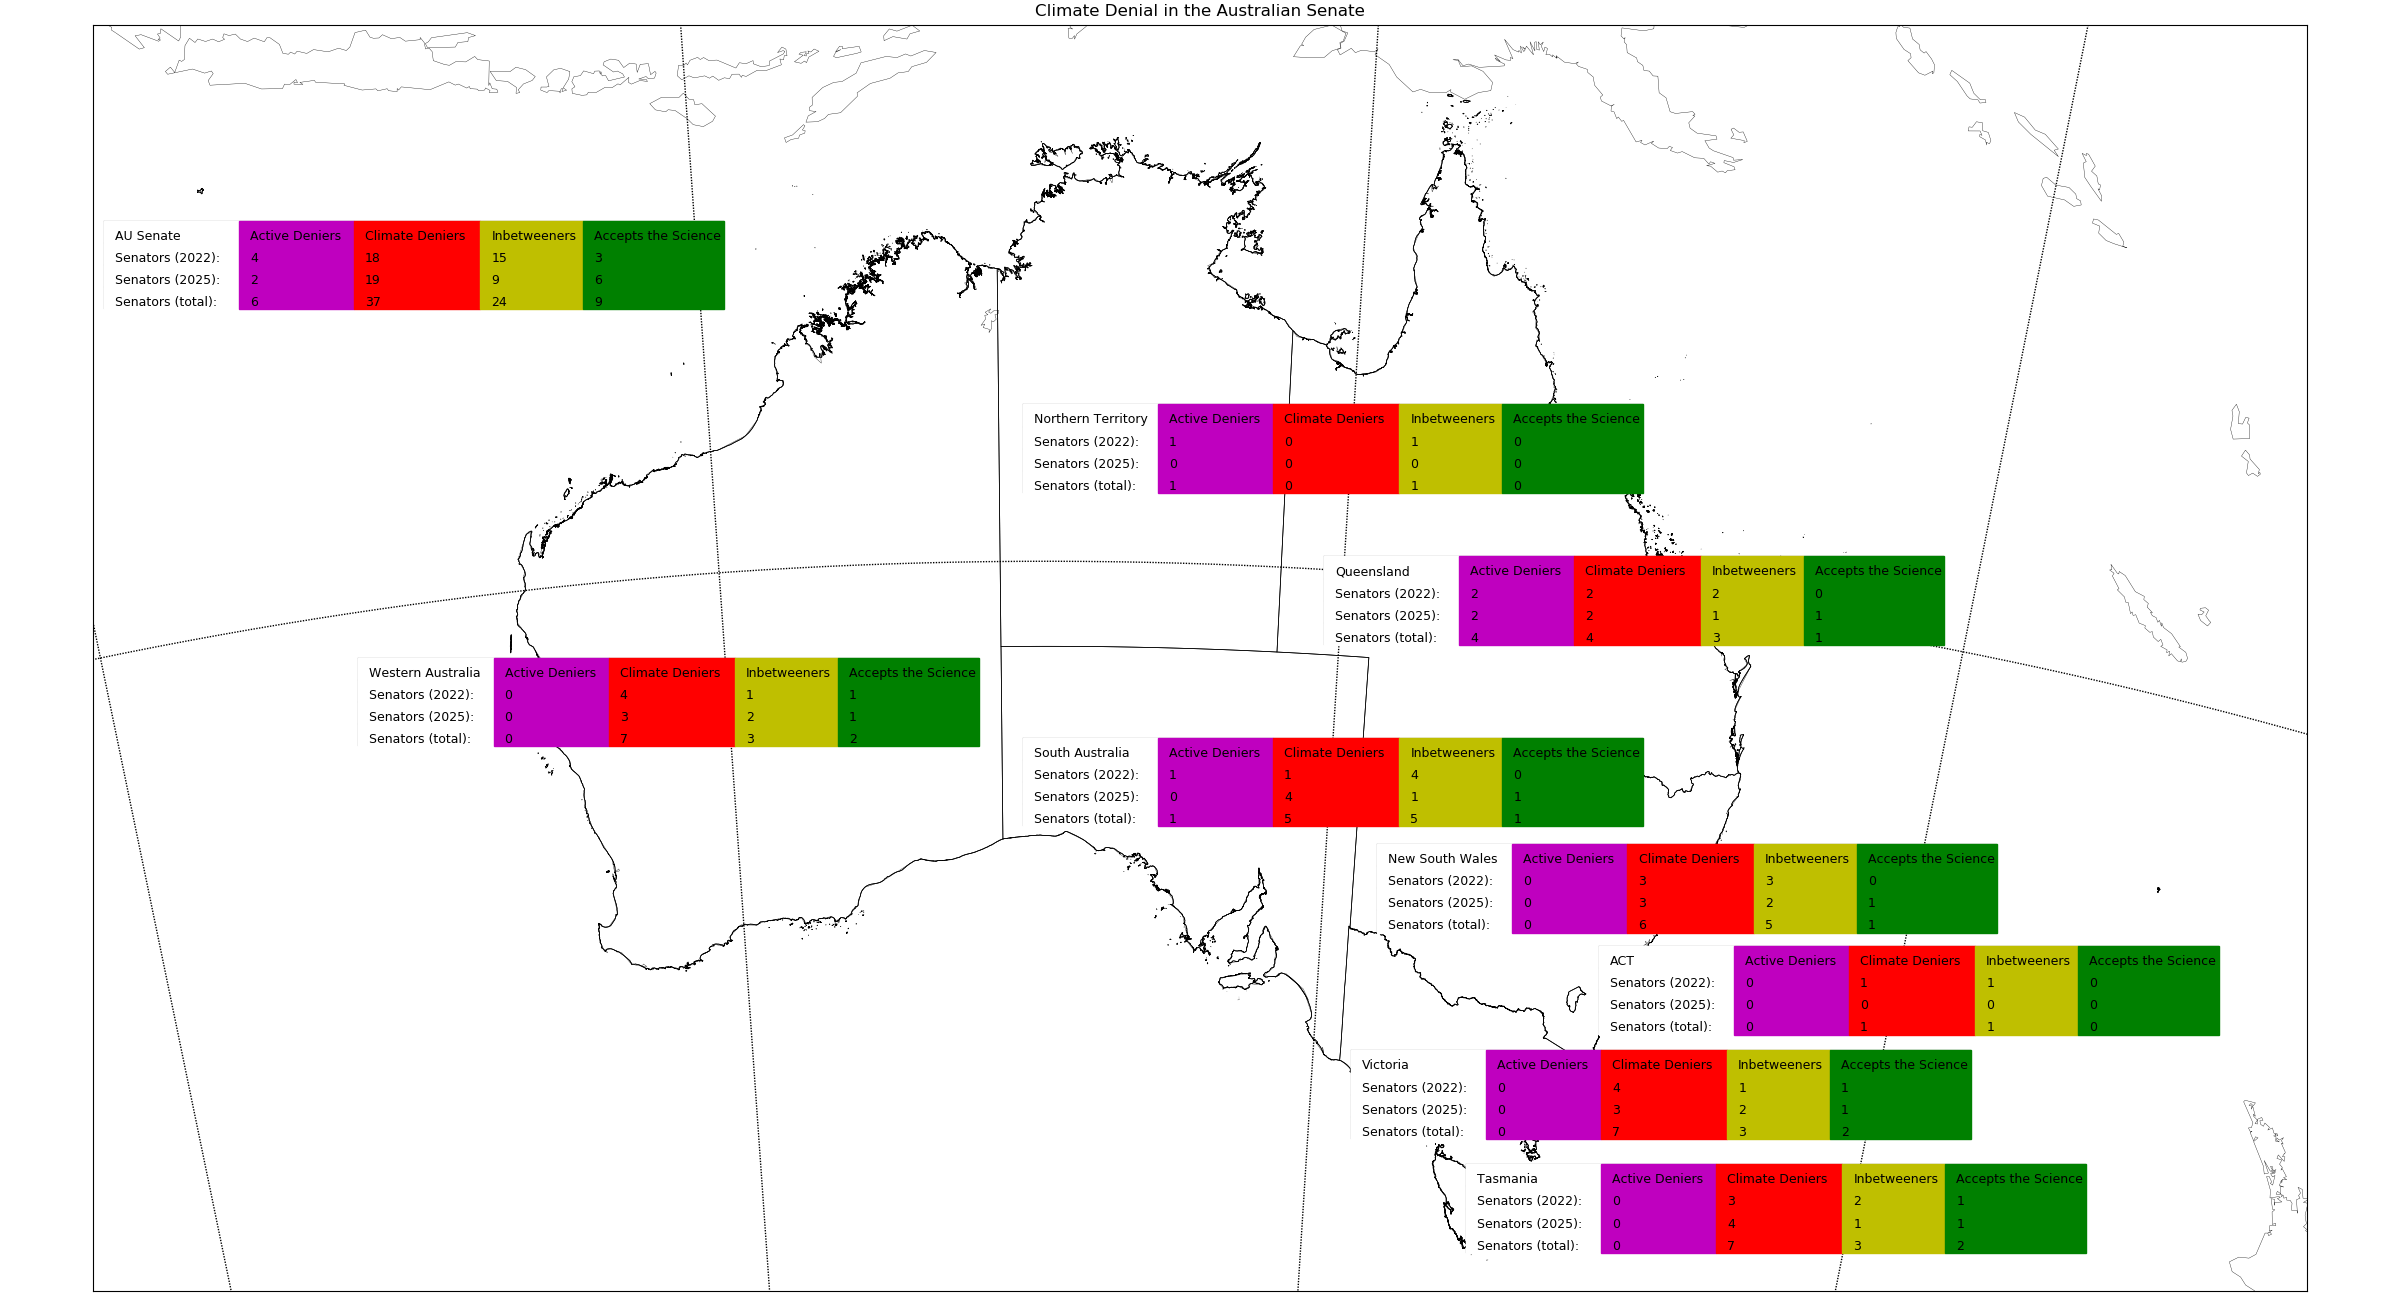
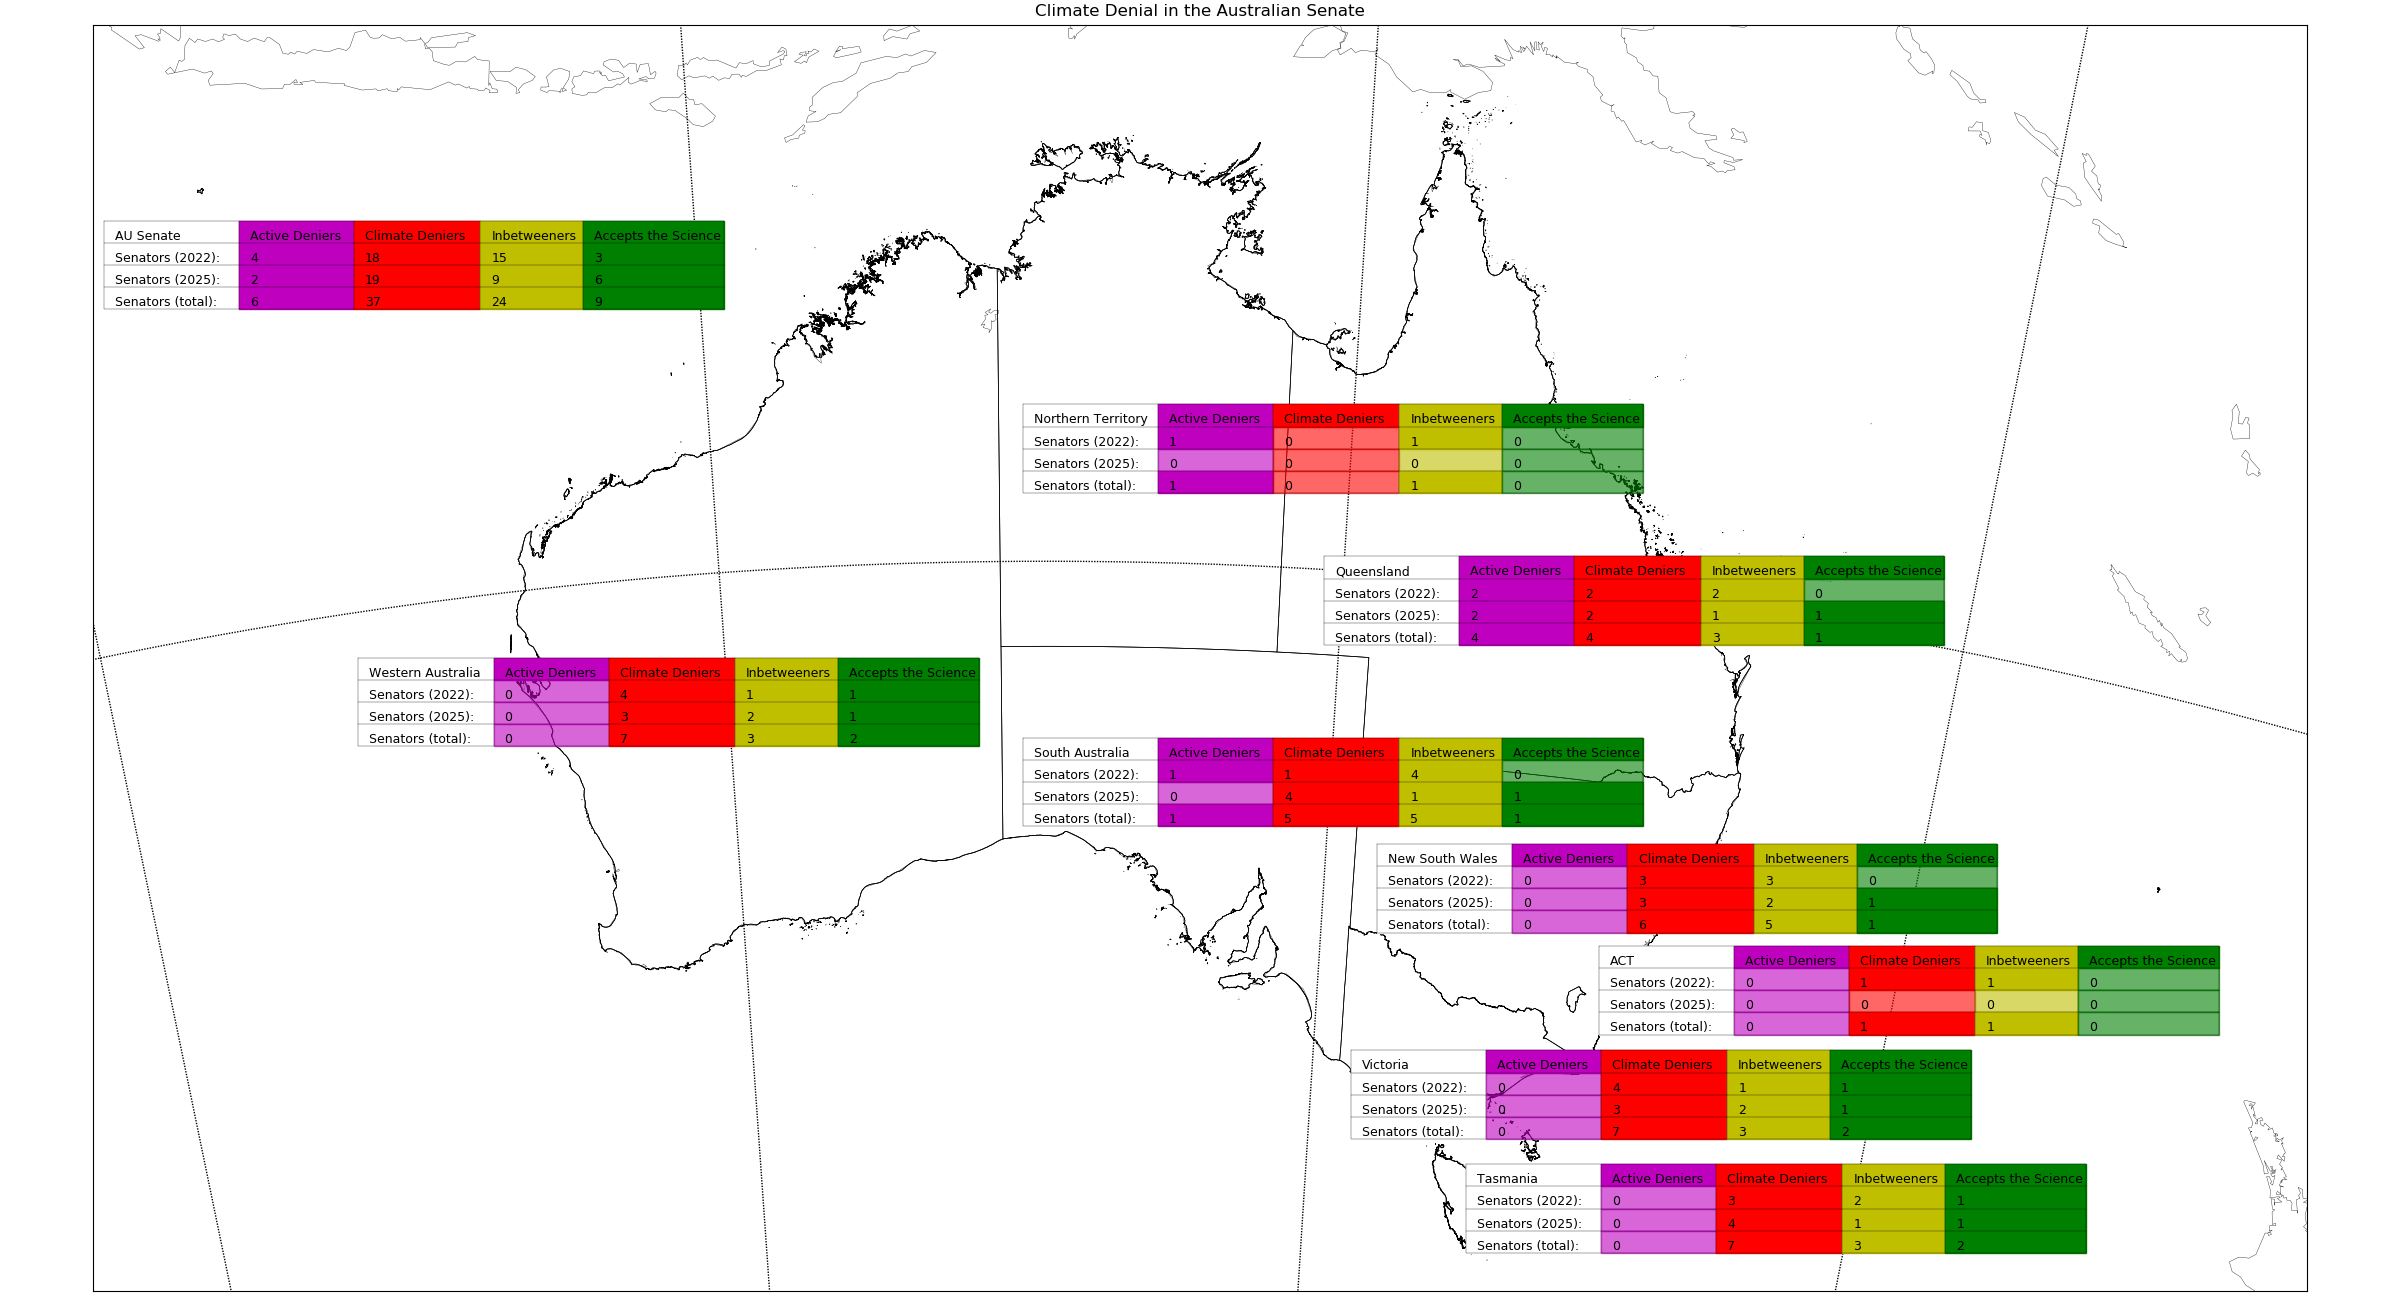
Transparency for cells that have value equal to 0

diff --git a/senate_climate_denialists.py b/senate_climate_denialists.py
@@ -44,6 +44,14 @@ m.drawmeridians(np.arange(100,180,20))
 
 m.readshapefile('./data/Igismap/Australia_Polygon', 'Australia_Polygon')
 
+def fill_cell(x, y, colour, value):
+    #fill given cell.
+    alpha = 0.6
+    if int(value) > 0:
+        alpha = 1
+
+    ax.fill(x, y, color=colour, transform=ax.transAxes, alpha=alpha, zorder=10)
+
 def display_table(cell_values, upper_left_corner, state):
     #print the summary table
     # senator_box_ulc = [0.005, 0.845]    
@@ -74,64 +82,69 @@ def display_table(cell_values, upper_left_corner, state):
     inbetweeners_txt_x = senator_box_vert3_x + 0.005
     accepts_science_txt_x = senator_box_vert4_x + 0.005
 
-    senator_box_fill_x = [senator_box_ulc[0], senator_box_vert1_x, senator_box_vert1_x, senator_box_ulc[0], senator_box_ulc[0]]
+    #fill first column
+    senator_box_fill_col0_x = [senator_box_ulc[0], senator_box_vert1_x, senator_box_vert1_x, senator_box_ulc[0], senator_box_ulc[0]]
     senator_box_fill_y = [senator_box_ulc[1], senator_box_ulc[1], senator_box_llc[1], senator_box_llc[1], senator_box_ulc[1]]
-    ax.fill(senator_box_fill_x, senator_box_fill_y, color='w', transform=ax.transAxes, zorder=10)
+    ax.fill(senator_box_fill_col0_x, senator_box_fill_y, color='w', transform=ax.transAxes, zorder=10)
 
-    senator_box_fill_x = [senator_box_vert1_x, senator_box_vert2_x, senator_box_vert2_x, senator_box_vert1_x, senator_box_vert1_x]
-    senator_box_fill_y = [senator_box_ulc[1], senator_box_ulc[1], senator_box_llc[1], senator_box_llc[1], senator_box_ulc[1]]
-    ax.fill(senator_box_fill_x, senator_box_fill_y, color='m', transform=ax.transAxes, zorder=10)
+    #fill heading row
+    senator_box_fill_col1_x = [senator_box_vert1_x, senator_box_vert2_x, senator_box_vert2_x, senator_box_vert1_x, senator_box_vert1_x]
+    senator_box_fill_row0_y = [senator_box_ulc[1], senator_box_ulc[1], senator_box_ml1[1], senator_box_ml1[1], senator_box_ulc[1]]
+    ax.fill(senator_box_fill_col1_x, senator_box_fill_row0_y, color='m', transform=ax.transAxes, zorder=10)
     
-    senator_box_fill_x = [senator_box_vert2_x, senator_box_vert3_x, senator_box_vert3_x, senator_box_vert2_x, senator_box_vert2_x]
-    senator_box_fill_y = [senator_box_ulc[1], senator_box_ulc[1], senator_box_llc[1], senator_box_llc[1], senator_box_ulc[1]]
-    ax.fill(senator_box_fill_x, senator_box_fill_y, color='r', transform=ax.transAxes, zorder=10)
+    senator_box_fill_col2_x = [senator_box_vert2_x, senator_box_vert3_x, senator_box_vert3_x, senator_box_vert2_x, senator_box_vert2_x]
+    ax.fill(senator_box_fill_col2_x, senator_box_fill_row0_y, color='r', transform=ax.transAxes, zorder=10)
 
-    senator_box_fill_x = [senator_box_vert3_x, senator_box_vert4_x, senator_box_vert4_x, senator_box_vert3_x, senator_box_vert3_x]
-    senator_box_fill_y = [senator_box_ulc[1], senator_box_ulc[1], senator_box_llc[1], senator_box_llc[1], senator_box_ulc[1]]
-    ax.fill(senator_box_fill_x, senator_box_fill_y, color='y', transform=ax.transAxes, zorder=10)
+    senator_box_fill_col3_x = [senator_box_vert3_x, senator_box_vert4_x, senator_box_vert4_x, senator_box_vert3_x, senator_box_vert3_x]
+    ax.fill(senator_box_fill_col3_x, senator_box_fill_row0_y, color='y', transform=ax.transAxes, zorder=10)
     
-    senator_box_fill_x = [senator_box_vert4_x, senator_box_urc[0], senator_box_lrc[0], senator_box_vert4_x, senator_box_vert4_x]
-    senator_box_fill_y = [senator_box_ulc[1], senator_box_ulc[1], senator_box_llc[1], senator_box_llc[1], senator_box_ulc[1]]
-    ax.fill(senator_box_fill_x, senator_box_fill_y, color='g', transform=ax.transAxes, zorder=10)
+    senator_box_fill_col4_x = [senator_box_vert4_x, senator_box_urc[0], senator_box_lrc[0], senator_box_vert4_x, senator_box_vert4_x]
+    ax.fill(senator_box_fill_col4_x, senator_box_fill_row0_y, color='g', transform=ax.transAxes, zorder=10)
 
+    line_colour = 'k'
     #outline
     senator_box_x = [senator_box_ulc[0], senator_box_urc[0], senator_box_lrc[0], senator_box_llc[0], senator_box_ulc[0]]
     senator_box_y = [senator_box_ulc[1], senator_box_urc[1], senator_box_lrc[1], senator_box_llc[1], senator_box_ulc[1]]
-    ax.plot(senator_box_x, senator_box_y, color='0.6', linewidth=0.25, transform=ax.transAxes)
+    ax.plot(senator_box_x, senator_box_y, color=line_colour, linewidth=0.25, transform=ax.transAxes, zorder=15)
 
     #midline
     senator_box_x = [senator_box_ml1[0], senator_box_mr1[0]]
     senator_box_y = [senator_box_ml1[1], senator_box_mr1[1]]
-    ax.plot(senator_box_x, senator_box_y, color='0.6', linewidth=0.25, transform=ax.transAxes)
+    ax.plot(senator_box_x, senator_box_y, color=line_colour, linewidth=0.25, transform=ax.transAxes, zorder=15)
 
     senator_box_x = [senator_box_ml2[0], senator_box_mr2[0]]
     senator_box_y = [senator_box_ml2[1], senator_box_mr2[1]]
-    ax.plot(senator_box_x, senator_box_y, color='0.6', linewidth=0.25, transform=ax.transAxes)
+    ax.plot(senator_box_x, senator_box_y, color=line_colour, linewidth=0.25, transform=ax.transAxes, zorder=15)
 
     senator_box_x = [senator_box_ml3[0], senator_box_mr3[0]]
     senator_box_y = [senator_box_ml3[1], senator_box_mr3[1]]
-    ax.plot(senator_box_x, senator_box_y, color='0.6', linewidth=0.25, transform=ax.transAxes)
+    ax.plot(senator_box_x, senator_box_y, color=line_colour, linewidth=0.25, transform=ax.transAxes, zorder=15)
 
     #vertical divider
     senator_box_x = [senator_box_vert1_x, senator_box_vert1_x]
     senator_box_y = [senator_box_ulc[1], senator_box_llc[1]]
-    ax.plot(senator_box_x, senator_box_y, color='0.6', linewidth=0.25, transform=ax.transAxes)
+    ax.plot(senator_box_x, senator_box_y, color=line_colour, linewidth=0.25, transform=ax.transAxes, zorder=15)
 
     #vertical_divider
     senator_box_x = [senator_box_vert2_x, senator_box_vert2_x]
     senator_box_y = [senator_box_ulc[1], senator_box_llc[1]]
-    ax.plot(senator_box_x, senator_box_y, color='0.6', linewidth=0.25, transform=ax.transAxes)
+    ax.plot(senator_box_x, senator_box_y, color=line_colour, linewidth=0.25, transform=ax.transAxes, zorder=15)
     
     #vertical_divider
     senator_box_x = [senator_box_vert3_x, senator_box_vert3_x]
     senator_box_y = [senator_box_ulc[1], senator_box_llc[1]]
-    ax.plot(senator_box_x, senator_box_y, color='0.6', linewidth=0.25, transform=ax.transAxes)
+    ax.plot(senator_box_x, senator_box_y, color=line_colour, linewidth=0.25, transform=ax.transAxes, zorder=15)
     
     #vertical_divider
     senator_box_x = [senator_box_vert4_x, senator_box_vert4_x]
     senator_box_y = [senator_box_ulc[1], senator_box_llc[1]]
-    ax.plot(senator_box_x, senator_box_y, color='0.6', linewidth=0.25, transform=ax.transAxes)
+    ax.plot(senator_box_x, senator_box_y, color=line_colour, linewidth=0.25, transform=ax.transAxes, zorder=15)
+
+    row1_box_y = [senator_box_ml1[1], senator_box_ml1[1], senator_box_ml2[1], senator_box_ml2[1], senator_box_ml1[1]]
+    row2_box_y = [senator_box_ml2[1], senator_box_ml2[1], senator_box_ml3[1], senator_box_ml3[1], senator_box_ml2[1]]
+    row3_box_y = [senator_box_ml3[1], senator_box_ml3[1], senator_box_lrc[1], senator_box_lrc[1], senator_box_ml3[1]]
     
+    #header row text
     ax.text(type_txt_x,senator_heading_y, state, horizontalalignment='left', color='k', transform=ax.transAxes, fontsize=9, zorder=20)
     ax.text(active_deniers_txt_x,senator_heading_y, 'Active Deniers', horizontalalignment='left', color='k', transform=ax.transAxes, fontsize=9, zorder=20)
     ax.text(deniers_txt_x, senator_heading_y, 'Climate Deniers', horizontalalignment='left', color='k', transform=ax.transAxes, fontsize=9, zorder=20)
@@ -139,21 +152,33 @@ def display_table(cell_values, upper_left_corner, state):
     ax.text(accepts_science_txt_x, senator_heading_y, 'Accepts the Science', horizontalalignment='left', color='k', transform=ax.transAxes, fontsize=9, zorder=20)   
     #2022 Term
     ax.text(type_txt_x, senator_term1_values_y, 'Senators (' + str(first_term) + '): ', horizontalalignment='left', color='k', transform=ax.transAxes, fontsize=9, zorder=20)
+    fill_cell(senator_box_fill_col1_x, row1_box_y, 'm', cell_values[0][0])
     ax.text(active_deniers_txt_x, senator_term1_values_y, cell_values[0][0], horizontalalignment='left', color='k', transform=ax.transAxes, fontsize=9, zorder=20)
+    fill_cell(senator_box_fill_col2_x, row1_box_y, 'r', cell_values[0][1])
     ax.text(deniers_txt_x, senator_term1_values_y, cell_values[0][1], horizontalalignment='left', color='k', transform=ax.transAxes, fontsize=9, zorder=20)
+    fill_cell(senator_box_fill_col3_x, row1_box_y, 'y', cell_values[0][2])
     ax.text(inbetweeners_txt_x, senator_term1_values_y, cell_values[0][2], horizontalalignment='left', color='k', transform=ax.transAxes, fontsize=9, zorder=20)
+    fill_cell(senator_box_fill_col4_x, row1_box_y, 'g', cell_values[0][3])
     ax.text(accepts_science_txt_x, senator_term1_values_y, cell_values[0][3], horizontalalignment='left', color='k', transform=ax.transAxes, fontsize=9, zorder=20)
     #2025 Term       
     ax.text(type_txt_x, senator_term2_values_y, 'Senators (' + str(second_term) + '): ', horizontalalignment='left', color='k', transform=ax.transAxes, fontsize=9, zorder=20)
+    fill_cell(senator_box_fill_col1_x, row2_box_y, 'm', cell_values[1][0])
     ax.text(active_deniers_txt_x, senator_term2_values_y, cell_values[1][0], horizontalalignment='left', color='k', transform=ax.transAxes, fontsize=9, zorder=20)
+    fill_cell(senator_box_fill_col2_x, row2_box_y, 'r', cell_values[1][1])
     ax.text(deniers_txt_x, senator_term2_values_y, cell_values[1][1], horizontalalignment='left', color='k', transform=ax.transAxes, fontsize=9, zorder=20)
+    fill_cell(senator_box_fill_col3_x, row2_box_y, 'y', cell_values[1][2])
     ax.text(inbetweeners_txt_x, senator_term2_values_y, cell_values[1][2], horizontalalignment='left', color='k', transform=ax.transAxes, fontsize=9, zorder=20)
+    fill_cell(senator_box_fill_col4_x, row2_box_y, 'g', cell_values[1][3])
     ax.text(accepts_science_txt_x, senator_term2_values_y, cell_values[1][3], horizontalalignment='left', color='k', transform=ax.transAxes, fontsize=9, zorder=20)
     #Total       
     ax.text(type_txt_x, senator_total_values_y, 'Senators (total): ', horizontalalignment='left', color='k', transform=ax.transAxes, fontsize=9, zorder=20)
+    fill_cell(senator_box_fill_col1_x, row3_box_y, 'm', cell_values[2][0])
     ax.text(active_deniers_txt_x, senator_total_values_y, cell_values[2][0], horizontalalignment='left', color='k', transform=ax.transAxes, fontsize=9, zorder=20)
+    fill_cell(senator_box_fill_col2_x, row3_box_y, 'r', cell_values[2][1])
     ax.text(deniers_txt_x, senator_total_values_y, cell_values[2][1], horizontalalignment='left', color='k', transform=ax.transAxes, fontsize=9, zorder=20)
+    fill_cell(senator_box_fill_col3_x, row3_box_y, 'y', cell_values[2][2])
     ax.text(inbetweeners_txt_x, senator_total_values_y, cell_values[2][2], horizontalalignment='left', color='k', transform=ax.transAxes, fontsize=9, zorder=20)
+    fill_cell(senator_box_fill_col4_x, row3_box_y, 'g', cell_values[2][3])
     ax.text(accepts_science_txt_x, senator_total_values_y, cell_values[2][3], horizontalalignment='left', color='k', transform=ax.transAxes, fontsize=9, zorder=20)
 
 state_names = pd.read_csv('./data/1989 States.csv')

diff --git a/education.py b/education.py
@@ -1,0 +1,32 @@
+import pandas as pd
+import matplotlib.mlab as mlab
+import matplotlib.pyplot as plt
+
+
+electorates = pd.read_csv('./data/education.csv')
+
+active_climate_deniers = 0
+climate_deniers = 1
+fence_sitters = 2
+accepts_the_science = 3
+
+representative_active_climate_deniers = electorates[electorates['Denialists']==active_climate_deniers]
+representative_climate_deniers = electorates[electorates['Denialists']==climate_deniers]
+representative_fence_sitters = electorates[electorates['Denialists']==fence_sitters]
+representative_accepting_of_the_science = electorates[electorates['Denialists']==accepts_the_science]
+
+colors = ['m', 'r', 'y', 'g']
+names = ['Active Denialists', 'Climate Denialists', 'Inbetweeners', 'Accepts the Science']
+kwargs = dict(alpha=0.5, bins=20, stacked=True)
+
+#plt.hist([representative_active_climate_deniers['Year 12 or equivalent completion (people aged 20 to 24 years)'], representative_climate_deniers['Year 12 or equivalent completion (people aged 20 to 24 years)'], representative_fence_sitters['Year 12 or equivalent completion (people aged 20 to 24 years)'], representative_accepting_of_the_science['Year 12 or equivalent completion (people aged 20 to 24 years)']], bins = 20, color = colors, label = names)
+plt.hist(representative_active_climate_deniers['Year 12 or equivalent completion (people aged 20 to 24 years)'], **kwargs, color=colors[active_climate_deniers], label=names[active_climate_deniers])
+plt.hist(representative_climate_deniers['Year 12 or equivalent completion (people aged 20 to 24 years)'], **kwargs, color=colors[climate_deniers], label=names[climate_deniers])
+plt.hist(representative_fence_sitters['Year 12 or equivalent completion (people aged 20 to 24 years)'], **kwargs, color=colors[fence_sitters], label=names[fence_sitters])
+plt.hist(representative_accepting_of_the_science['Year 12 or equivalent completion (people aged 20 to 24 years)'], **kwargs, color=colors[accepts_the_science], label=names[accepts_the_science])
+
+plt.legend()
+plt.xlabel('Year 12 Completion Rate')
+plt.ylabel('Electorates')
+plt.title('Climate Denialists by Year 12 completion rates of electorates')
+plt.show()
